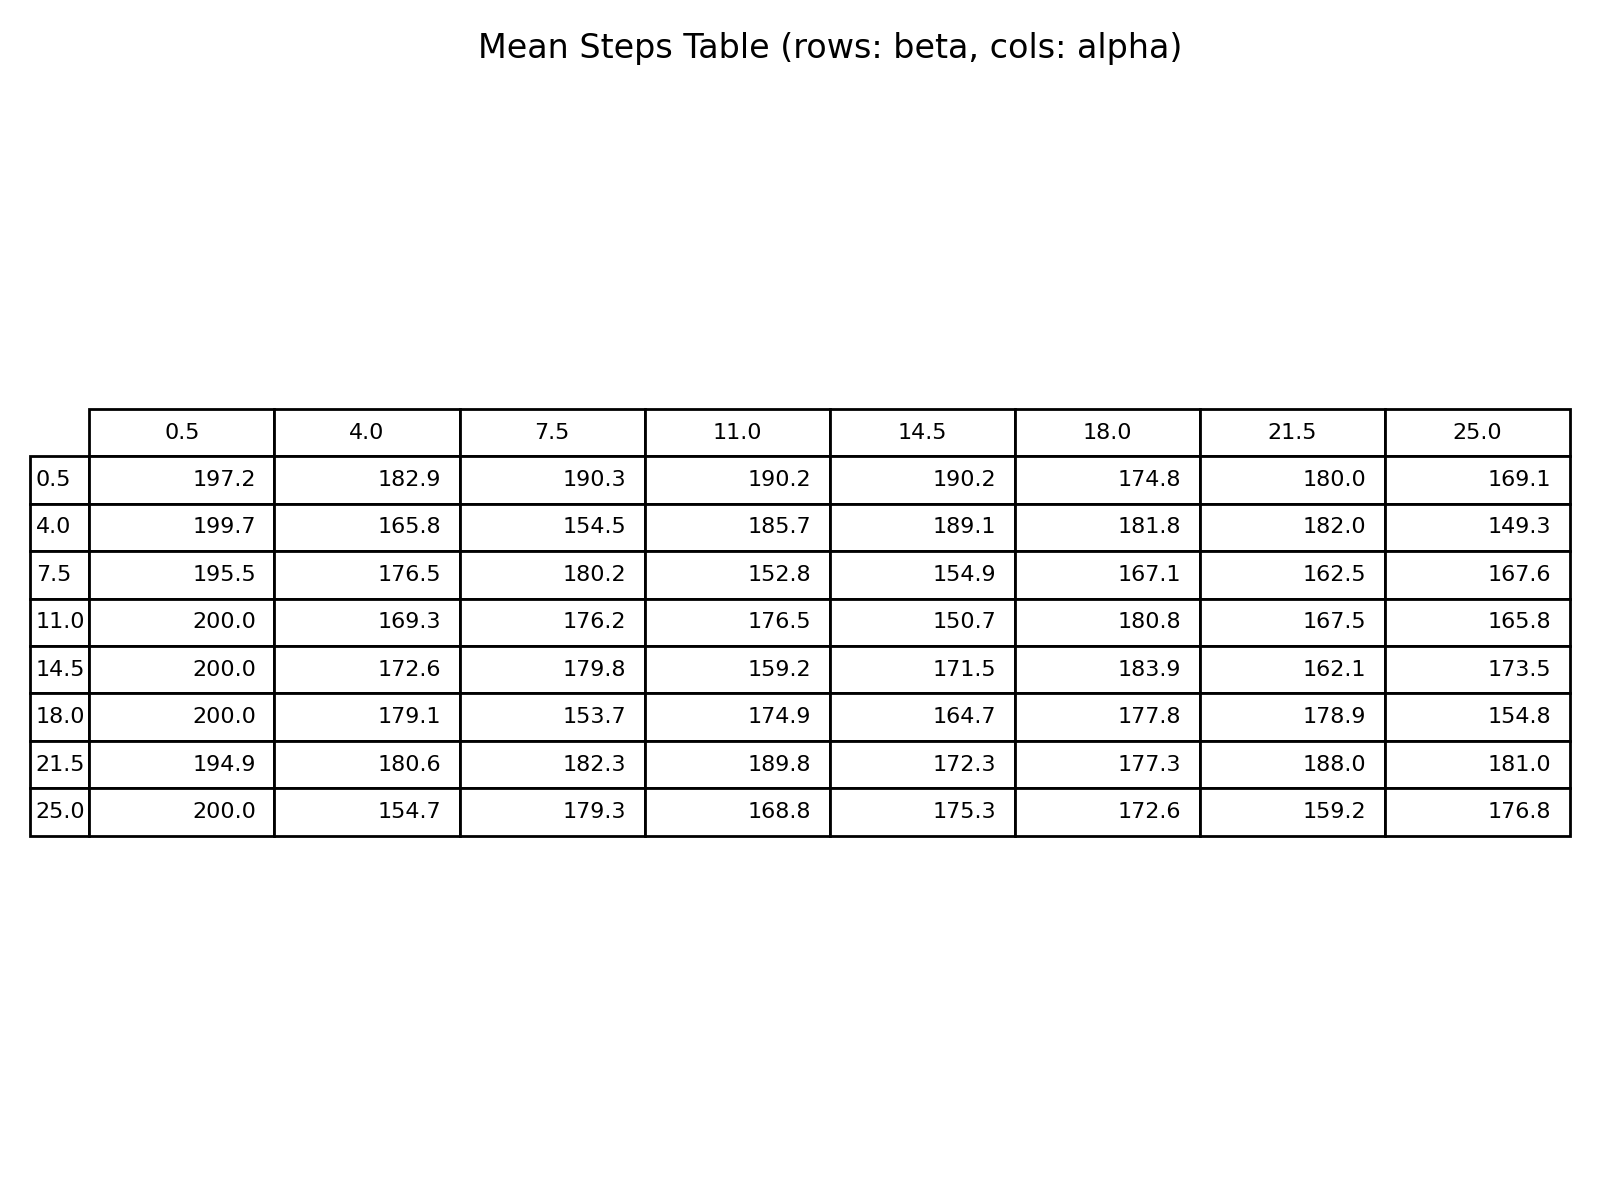
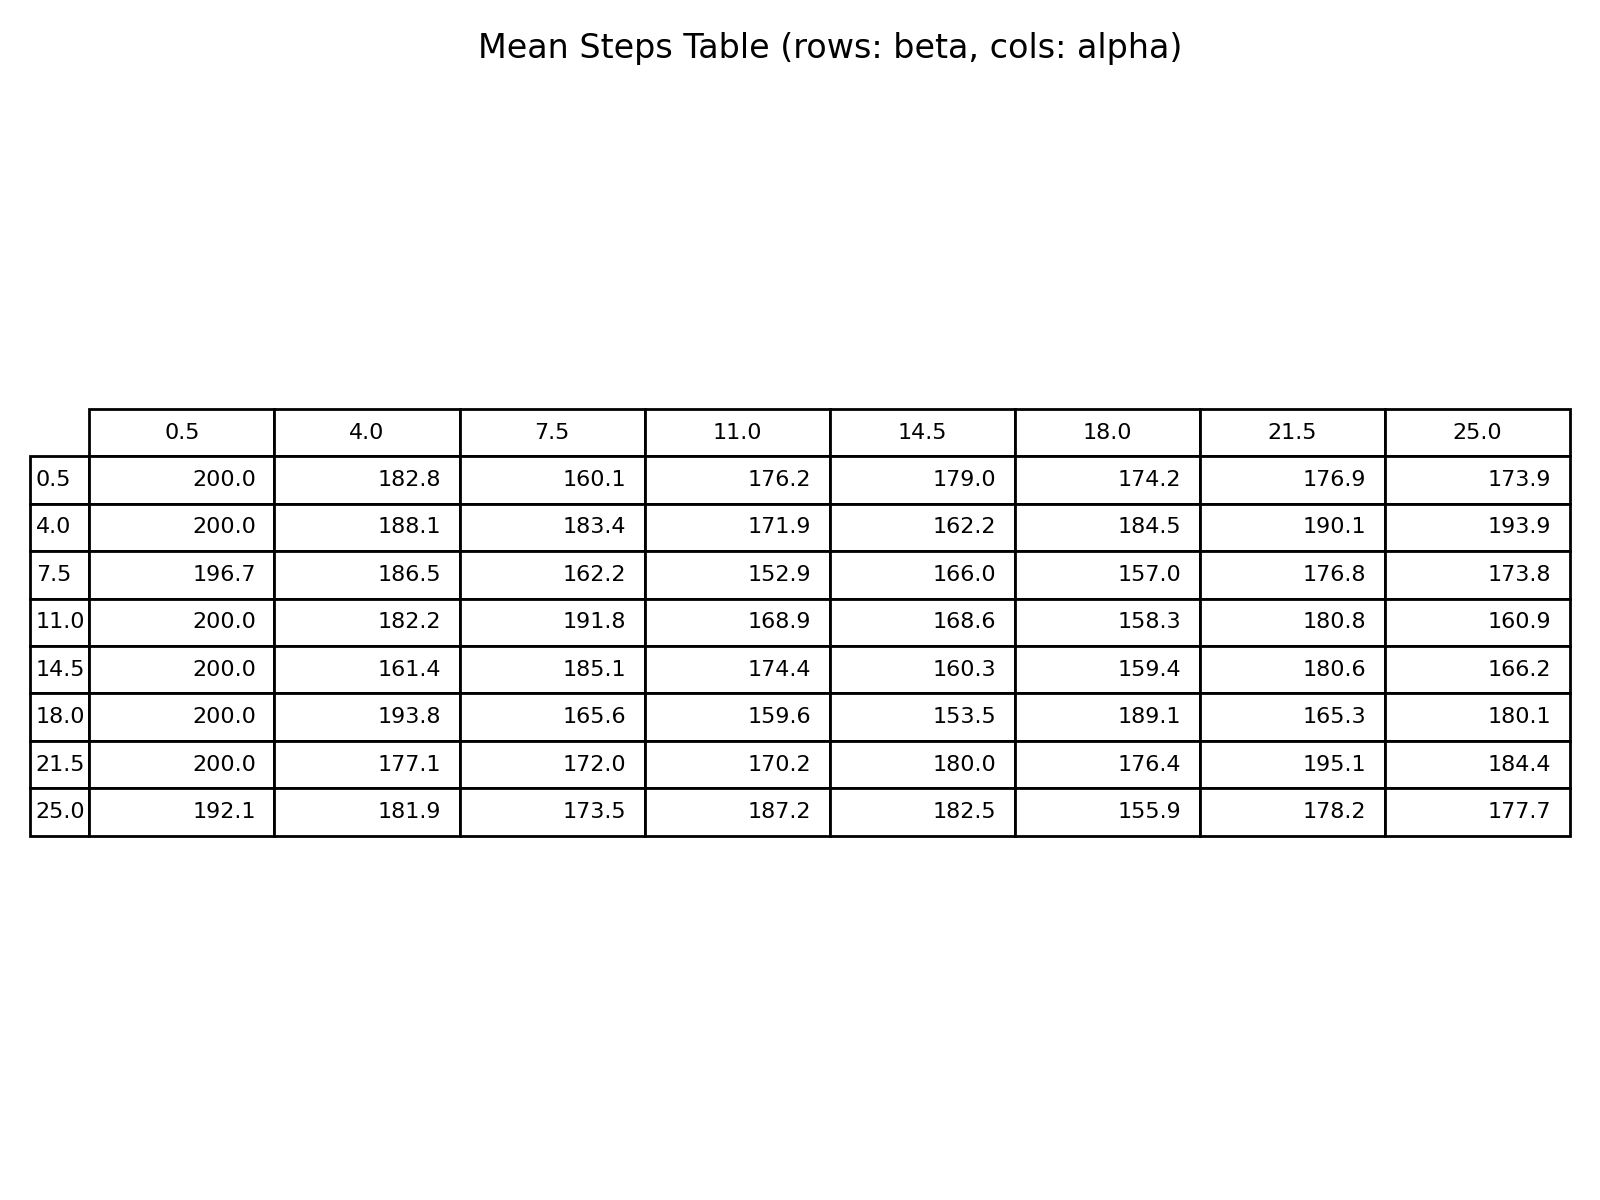
final

diff --git a/visualization.py b/visualization.py
@@ -22,7 +22,7 @@ def entropy(potential):
 def visited(potential):
     return sum(potential> 1e-6)
 
-def run_sim(alpha, beta, map_grid=None, target_pos=None, seed=0):
+def run_sim(alpha, beta, map_grid=None, target_pos=None, agents_positions=None):
     """
     시뮬레이션 실행
     
@@ -30,27 +30,36 @@ def run_sim(alpha, beta, map_grid=None, target_pos=None, seed=0):
         찾은 경우: 도달한 스텝 수
         못 찾은 경우: STEPS
     """
-    if seed is not None:
-        random.seed(seed)
-        np.random.seed(seed)
-
     potential = np.zeros((HEIGHT, WIDTH)) + 1e-6
 
     # 장애물 설정
     if map_grid is not None:
         potential = set_obstacles_on_potential(potential, map_grid)
 
-    agents = [
-        Agent(
-            y=random.randint(0, 5),
-            x=random.randint(WIDTH - 6, WIDTH - 1),
-            height=HEIGHT,
-            width=WIDTH,
-            alpha=alpha,
-            beta=beta
-        )
-        for _ in range(N)
-    ]
+    if agents_positions is not None:
+        agents = [
+            Agent(
+                y=int(pos[0]),
+                x=int(pos[1]),
+                height=HEIGHT,
+                width=WIDTH,
+                alpha=alpha,
+                beta=beta
+            )
+            for pos in agents_positions
+        ]
+    else:
+        agents = [
+            Agent(
+                y=random.randint(0, 5),
+                x=random.randint(WIDTH - 6, WIDTH - 1),
+                height=HEIGHT,
+                width=WIDTH,
+                alpha=alpha,
+                beta=beta
+            )
+            for _ in range(N)
+        ]
 
     for t in range(STEPS):
         potential *= DECAY
@@ -73,13 +82,14 @@ def run_sim(alpha, beta, map_grid=None, target_pos=None, seed=0):
 # alpha sweep
 # =======================
 
-# 맵 생성
-map_grid = generate_map(WIDTH, HEIGHT, OBSTACLE_RATIO, seed=42)
-target_y, target_x = get_valid_position(map_grid, seed=43)
-target_pos = (target_y, target_x)
+# 고정 맵과 에이전트 위치 로드
+map_grid = np.load("fixed_map.npy")
+target_pos = tuple(np.load("fixed_target.npy"))
+agents_positions = np.load("fixed_agents.npy")
 
-print(f"Map created with {np.sum(map_grid)} obstacles ({np.sum(map_grid)/(WIDTH*HEIGHT)*100:.1f}%)")
+print(f"Fixed map loaded with {np.sum(map_grid)} obstacles ({np.sum(map_grid)/(WIDTH*HEIGHT)*100:.1f}%)")
 print(f"Target position: {target_pos}")
+print(f"Agent positions: {agents_positions}")
 
 # alpha-beta sweep (2D) -- reduced resolution for speed
 alphas = np.linspace(0.5, 25, ALPHA_SAMPLES)
@@ -96,7 +106,7 @@ for i, b in enumerate(betas):
         vals = []
         t0 = time.perf_counter()
         for s in range(RUNS_PER_PAIR):
-            result = run_sim(a, b, map_grid=map_grid, target_pos=target_pos, seed=s)
+            result = run_sim(a, b, map_grid=map_grid, target_pos=target_pos, agents_positions=agents_positions)
             vals.append(result)
         Hs[i, j] = np.mean(vals)
         elapsed = time.perf_counter() - t0
@@ -133,10 +143,10 @@ plt.xlabel("Alpha")
 plt.ylabel("Beta")
 plt.title("Goal Reach Time vs Alpha and Beta")
 plt.tight_layout()
-plt.savefig("goal_reach_time_alpha_beta.png", dpi=200)
+plt.savefig("goal_reach_time_alpha_beta4.png", dpi=200)
 plt.close()
 
-print("Heatmap saved: goal_reach_time_alpha_beta.png")
+print("Heatmap saved: goal_reach_time_alpha_beta3.png")
 
 # Save results as CSV (long format)
 import csv
@@ -146,6 +156,23 @@ with open('results.csv', 'w', newline='') as f:
     for i, b in enumerate(betas):
         for j, a in enumerate(alphas):
             writer.writerow([f"{a:.6f}", f"{b:.6f}", f"{Hs[i,j]:.6f}", f"{times[i,j]:.6f}"])
+
+# 콘솔에 표 출력 (alpha-beta 조합별 평균 스텝과 시간)
+print("\n=== 실험 결과 표 (Alpha vs Beta) ===")
+print(f"{'Beta \\ Alpha':<10}", end="")
+for a in alphas:
+    print(f"{a:<8.1f}", end="")
+print()
+print("-" * (10 + 8 * len(alphas)))
+for i, b in enumerate(betas):
+    print(f"{b:<10.1f}", end="")
+    for j, a in enumerate(alphas):
+        steps = Hs[i, j]
+        time_val = times[i, j]
+        print(f"{steps:<4.1f}({time_val:<4.2f})", end=" ")
+    print()
+
+print("\n(형식: 스텝수(시간초))")
 
 # Save a PNG table (rows: beta, cols: alpha) for quick visual lookup
 fig, ax = plt.subplots(figsize=(max(8, ALPHA_SAMPLES * 0.6), max(6, BETA_SAMPLES * 0.4)))
@@ -162,7 +189,7 @@ plt.tight_layout()
 plt.savefig('results_table.png', dpi=200)
 plt.close()
 
-print('Results saved: results.csv, results_table.png')
+print('Results saved: results2.csv, results_table2.png, goal_reach_time_alpha_beta2.png')
 
 # 저장: 배열로 결과 확인 가능하게 함
 np.save("Hs.npy", Hs)
@@ -174,4 +201,4 @@ print("Arrays saved: Hs.npy, alphas.npy, betas.npy, times.npy")
 # =======================
 # 맵 시각화
 # =======================
-visualize_map(map_grid, target_pos, save_path="map_visualization.png")
+visualize_map(map_grid, target_pos, save_path="map_visualization2.png")

diff --git a/generate_fixed_map.py b/generate_fixed_map.py
@@ -1,0 +1,34 @@
+import numpy as np
+from map_generator import generate_map, get_valid_position
+import random
+
+WIDTH = 50
+HEIGHT = 50
+OBSTACLE_RATIO = 0.2
+N = 10  # agent count
+
+# 시드 고정으로 맵과 에이전트 위치 일관성 유지
+random.seed(42)
+np.random.seed(42)
+
+# 맵 생성
+map_grid = generate_map(WIDTH, HEIGHT, OBSTACLE_RATIO, seed=42)
+target_pos = get_valid_position(map_grid, seed=43)
+
+print(f"Map created with {np.sum(map_grid)} obstacles ({np.sum(map_grid)/(WIDTH*HEIGHT)*100:.1f}%)")
+print(f"Target position: {target_pos}")
+
+# 에이전트 초기 위치 생성 (고정)
+agents_positions = [
+    (random.randint(0, 5), random.randint(WIDTH - 6, WIDTH - 1))
+    for _ in range(N)
+]
+
+print(f"Agent positions: {agents_positions}")
+
+# 저장
+np.save("fixed_map.npy", map_grid)
+np.save("fixed_target.npy", target_pos)
+np.save("fixed_agents.npy", agents_positions)
+
+print("Fixed map, target, and agents saved: fixed_map.npy, fixed_target.npy, fixed_agents.npy")

diff --git a/test_simulation.py b/test_simulation.py
@@ -8,7 +8,7 @@ from map_generator import generate_map, get_valid_position, set_obstacles_on_pot
 WIDTH = 50
 HEIGHT = 50
 NUM_AGENTS = 10
-STEPS = 400
+STEPS = 200
 DECAY = 1
 OBSTACLE_RATIO = 0.2
 
@@ -79,7 +79,7 @@ ani = animation.FuncAnimation(
     interval=50
 )
 
-output_filename = f"test_simulation_alpha{ALPHA}_beta{BETA}.gif"
+output_filename = f"test_simulation_alpha{ALPHA}_beta{BETA}_2.gif"
 ani.save(output_filename, writer="pillow", dpi=150)
 
 plt.close()
